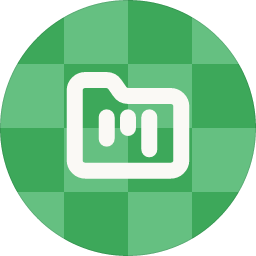
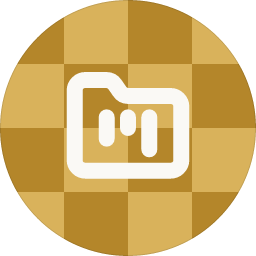
release: 1.1.3
Swap Haiku (now gold #B4862A) and Sonnet (now green #3DA85A) badge
colors. Opus unchanged orange. Rebuilt prebuilt PNGs and
agent-setup.xdc (APP_VERSION 1.87). Bumps plugin.json and
marketplace.json to 1.1.3. Ships accrued Unreleased items: tier-1
WebXDC test harness and access/ split.

diff --git a/plugin/webxdc/agent-setup.html b/plugin/webxdc/agent-setup.html
@@ -761,8 +761,8 @@ textarea.text { resize: vertical; min-height: 100px; font-family: 'SF Mono', 'Ca
   border-radius: 50%;
   display: inline-block;
 }
-.seg .dot.haiku  { background: var(--green); }
-.seg .dot.sonnet { background: var(--amber); }
+.seg .dot.haiku  { background: var(--amber); }
+.seg .dot.sonnet { background: var(--green); }
 .seg .dot.opus   { background: var(--orange); }
 .preview-bar {
   display: flex;
@@ -1012,8 +1012,8 @@ textarea.text { resize: vertical; min-height: 100px; font-family: 'SF Mono', 'Ca
   display: inline-block;
   flex-shrink: 0;
 }
-.agent-row .meta .tier-dot.haiku  { background: var(--green); }
-.agent-row .meta .tier-dot.sonnet { background: #B4862A; }
+.agent-row .meta .tier-dot.haiku  { background: #B4862A; }
+.agent-row .meta .tier-dot.sonnet { background: var(--green); }
 .agent-row .meta .tier-dot.opus   { background: var(--orange); }
 .agent-row .meta .sep {
   color: var(--ink-faint);
@@ -1537,11 +1537,11 @@ textarea.text { resize: vertical; min-height: 100px; font-family: 'SF Mono', 'Ca
 </div>
 
 <script>
-var APP_VERSION = 1.85;
+var APP_VERSION = 1.87;
 var GLYPHS = /*__GLYPHS__*/{};
 var PREVIEW_PALETTE = {
-  haiku:  { solid: '#3DA85A', checker: '#65C081' },
-  sonnet: { solid: '#B4862A', checker: '#D9B25B' },
+  haiku:  { solid: '#B4862A', checker: '#D9B25B' },
+  sonnet: { solid: '#3DA85A', checker: '#65C081' },
   opus:   { solid: '#D97757', checker: '#F2A778' },
 };
 

diff --git a/plugin/agent-icons/palettes.ts b/plugin/agent-icons/palettes.ts
@@ -20,8 +20,8 @@ export interface ModelPalette {
 }
 
 export const MODEL_COLORS: Record<ModelFamily, ModelPalette> = {
-  haiku: { solid: '#3DA85A', checker: '#65C081' },
-  sonnet: { solid: '#B4862A', checker: '#D9B25B' },
+  haiku: { solid: '#B4862A', checker: '#D9B25B' },
+  sonnet: { solid: '#3DA85A', checker: '#65C081' },
   opus: { solid: '#D97757', checker: '#F2A778' },
 }
 

diff --git a/CHANGELOG.md b/CHANGELOG.md
@@ -4,12 +4,17 @@ All notable changes to this project are documented here. Dates are in `YYYY-MM-D
 
 ## Unreleased
 
+## [1.1.3] — 2026-04-22
+
+Cosmetic + infrastructure patch. Haiku/Sonnet badge colors swapped for better at-a-glance model-tier recognition; tier-1 WebXDC test harness lands off by default; `access.ts` split into its Phase-0 folder layout.
+
 ### Added
 
 - **Tier-1 WebXDC test harness (opt-in).** Playwright-based harness at `plugin/test/webxdc/` that unzips each `.xdc`, serves it on an ephemeral HTTP port with a stub `webxdc.js`, and drives it in headless Chromium. First two tests: a cross-app auto-upgrade handshake (every `.xdc` must reply `version_mismatch` when `payload.version > APP_VERSION`) and a file-reviewer DOM + long-press comment roundtrip. Phase 1 of `docs/specs/2026-04-20-e2e-testing-proposal.md`. Isolated behind a nested `package.json` so marketplace installs pay zero cost; run `cd plugin/test/webxdc && bun install && bunx playwright install chromium` once, then `bun run test:webxdc` from `plugin/`. Default `bun test` is unchanged (548/0).
 
 ### Changed
 
+- **Swapped Haiku and Sonnet badge colors.** Haiku is now gold (`#B4862A`), Sonnet is now green (`#3DA85A`). Opus remains orange. Touches `agent-icons/palettes.ts` and the mirrored `MODEL_COLORS` + `.tier-dot` + `.seg .dot` CSS in `webxdc/agent-setup.html` (APP_VERSION 1.85 → 1.87). Prebuilt PNGs (`agent-badges-prebuilt/`) and the bundled `agent-setup.xdc` regenerated. Existing runtime cache at `~/.claude/channels/deltachat/agent-badges/` can be wiped to force immediate re-render; otherwise badges refresh lazily on next `setAgentIcon` call.
 - **`access.ts` split into `access/{chat-allowlist,pairing,principals}.ts`.** Phase 0 of the identity/teams migration (`docs/specs/2026-04-20-identity-and-teams-design.md`). `plugin/access/index.ts` is now the barrel; every `import * as access from './access.js'` callsite is flipped to `./access/index.js`. `principals.ts` is a dormant skeleton — types only, no runtime behaviour. No external behaviour change.
 
 ## [1.1.2] — 2026-04-20
@@ -335,6 +340,7 @@ First public release of the Delta Chat channel for Claude Code.
 - File-based allowlist + pairing codes.
 - `deltachat-rpc-server` integration.
 
+[1.1.3]: https://github.com/jhayashi/dc-claude-channel/compare/v1.1.2...v1.1.3
 [1.1.2]: https://github.com/jhayashi/dc-claude-channel/compare/v1.1.1...v1.1.2
 [1.1.1]: https://github.com/jhayashi/dc-claude-channel/compare/v1.1.0...v1.1.1
 [1.1.0]: https://github.com/jhayashi/dc-claude-channel/compare/v1.0.33...v1.1.0
